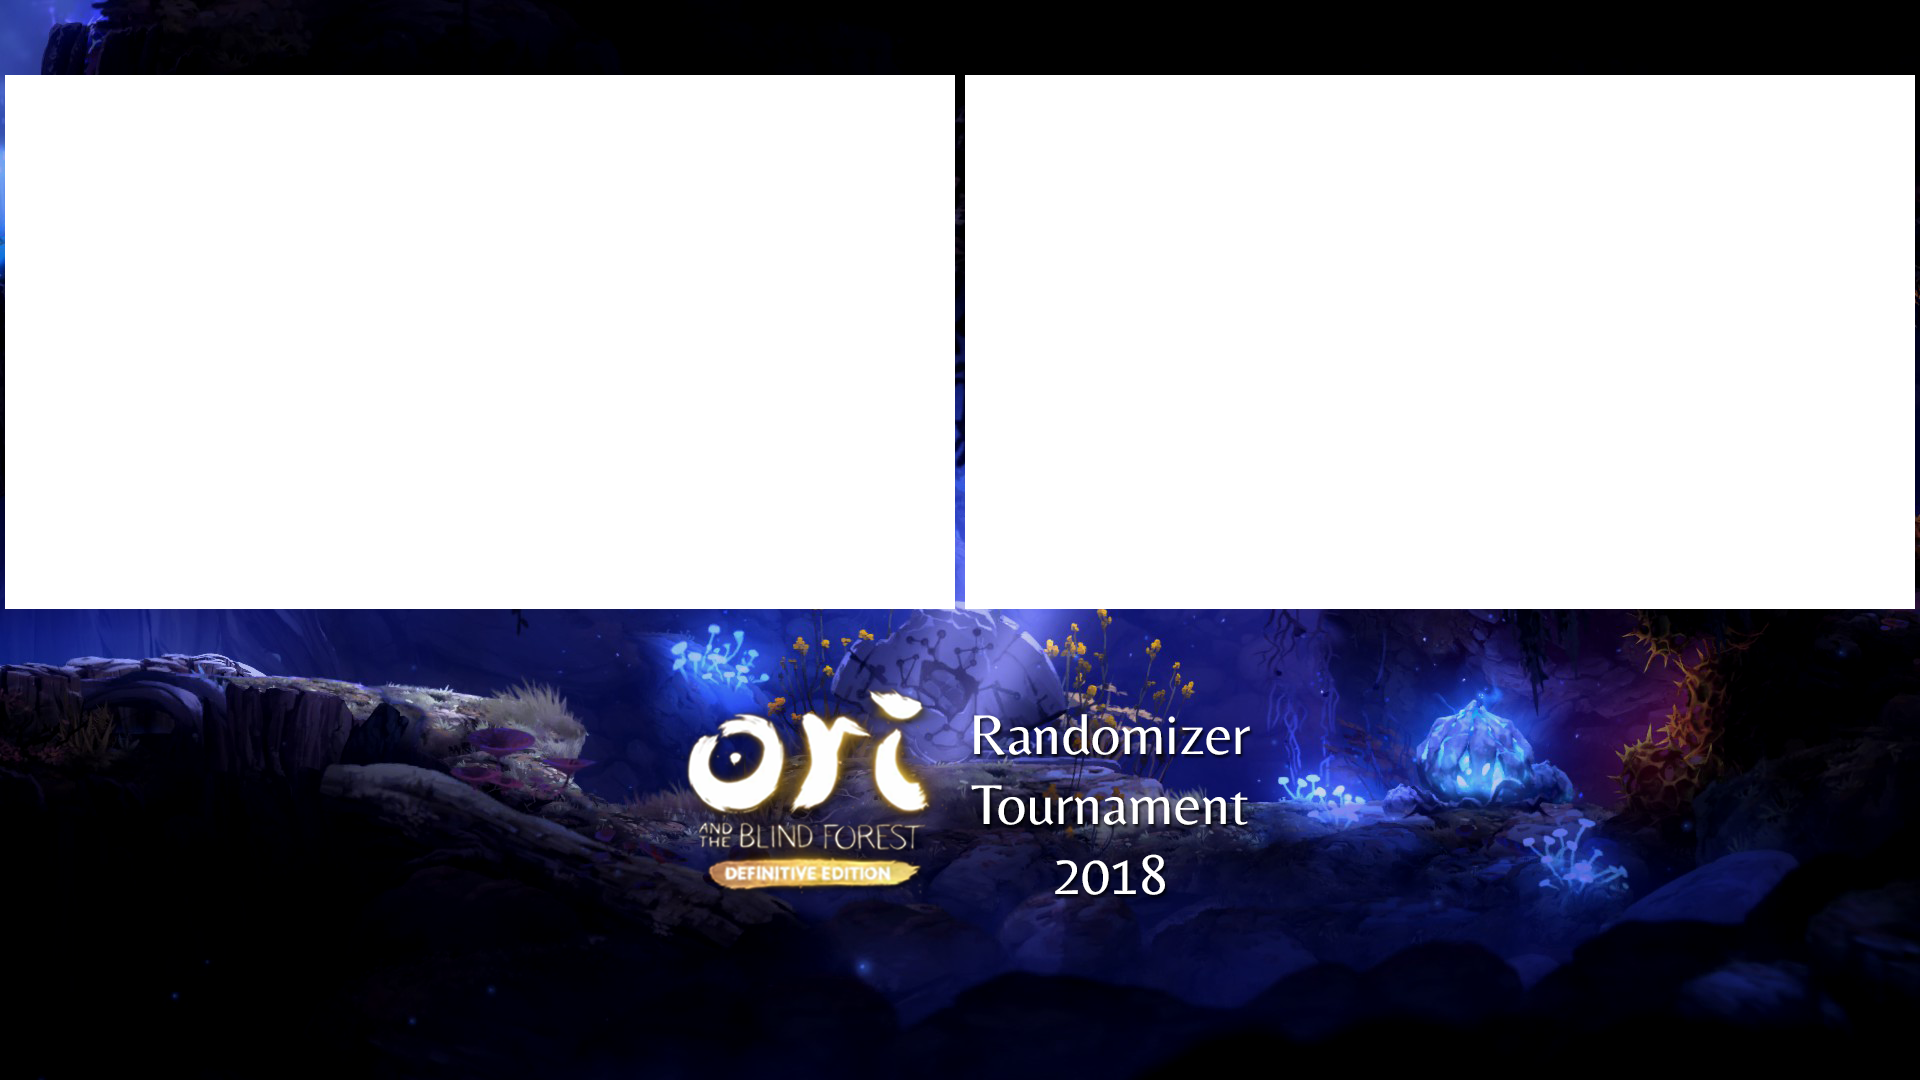
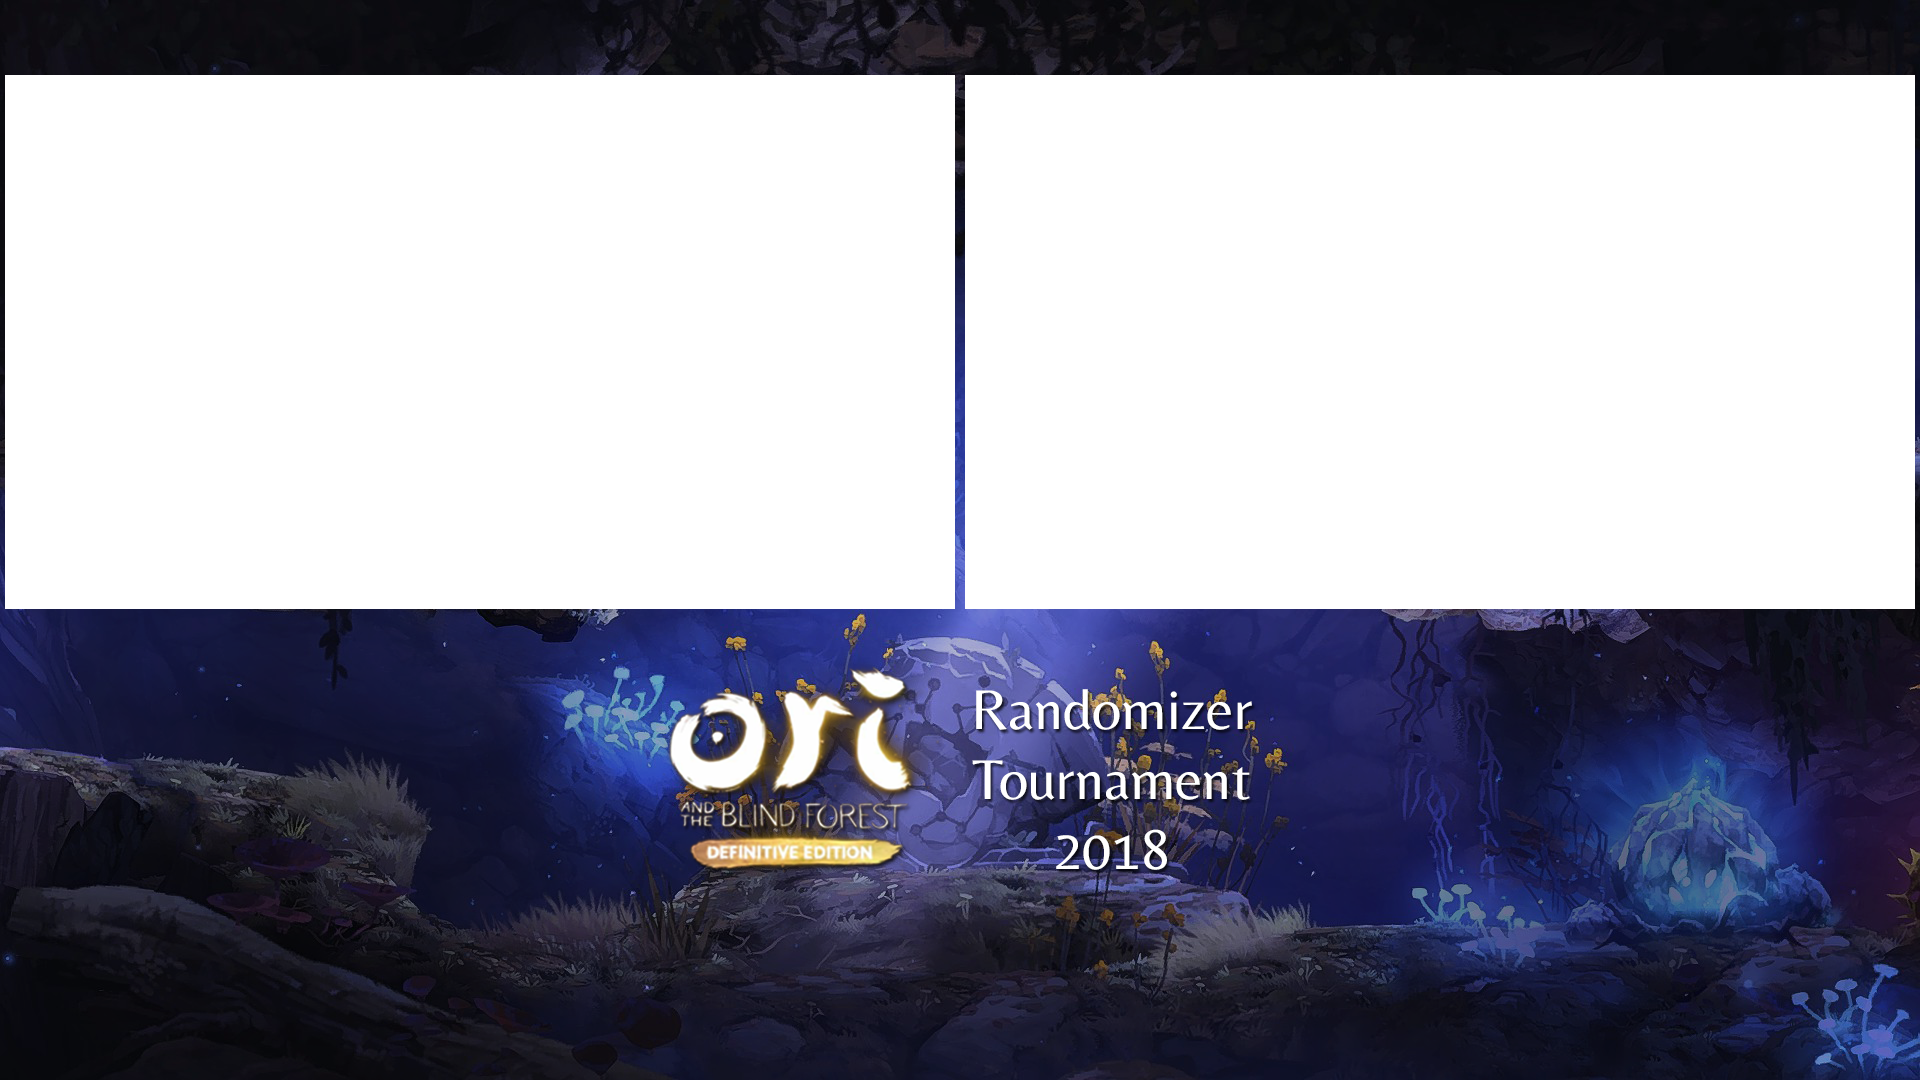
Add working average times, re-did backgrounds

diff --git a/src/app/stream-4way/stream-4way.html b/src/app/stream-4way/stream-4way.html
@@ -7,9 +7,9 @@
         class="team1">
         <span *ngIf="team1.seed">({{ team1.seed }}) </span>{{ team1.name }}
         <div [ngClass]="{ 'team-winner': (vm.team1_FinishTime < vm.team2_FinishTime && vm.team1_FinishTime != 0) || (vm.team1_FinishTime > 0 && vm.team2_FinishTime == 0) }"
-            class="finishTimeWinner">1:00:22</div>
+            class="finishTimeWinner">Winner: {{ team1FinishTime }} (avg)</div>
         <div [ngClass]="{ 'team-winner': (vm.team2_FinishTime < vm.team1_FinishTime && vm.team2_FinishTime != 0) }"
-            class="finishTimeLoser">1:00:22</div>
+            class="finishTimeLoser">{{ team1FinishTime }} (avg)</div>
     </div>
     
     <div [ngClass]="{ 'winner': (vm.team1_FinishTime < vm.team2_FinishTime && vm.team1_FinishTime != 0) || (vm.team1_FinishTime > 0 && vm.team2_FinishTime == 0)  }" 
@@ -73,9 +73,9 @@
         class="team2">
         <span *ngIf="team2.seed">({{ team2.seed }}) </span>{{ team2.name }}
         <div [ngClass]="{ 'team-winner': (vm.team2_FinishTime < vm.team1_FinishTime && vm.team2_FinishTime != 0) || (vm.team2_FinishTime > 0 && vm.team1_FinishTime == 0) }"
-            class="finishTimeWinner">1:00:22</div>
+            class="finishTimeWinner">Winner: {{ team2FinishTime }} (avg)</div>
         <div [ngClass]="{ 'team-winner': (vm.team1_FinishTime < vm.team2_FinishTime && vm.team1_FinishTime != 0) }"
-                class="finishTimeLoser">1:00:22</div>
+                class="finishTimeLoser">{{ team2FinishTime }} (avg)</div>
     </div>
     
     <div [ngClass]="{ 'winner': (vm.team2_FinishTime < vm.team1_FinishTime && vm.team2_FinishTime != 0) || (vm.team2_FinishTime > 0 && vm.team1_FinishTime == 0) }"  

diff --git a/src/app/services/information.ts b/src/app/services/information.ts
@@ -17,7 +17,7 @@ export class Information {
     player2_stats: number = 0;
     currentAudioOnPlayer: number = 1;
     commentators: string = 'Mattermonkey, TheFlyingMarlin';
-    background: string = 'iceless';
+    background: string = 'brbms';
     groupName: string = 'Swiss - Round 3';
     matchType: string = this.groupName + ' (2-0)';
     zoomBracket: boolean = false;
@@ -362,6 +362,27 @@ export class Information {
 			'singles': false,
 			'seed': null
 		},
+		{
+			'id': 50,
+			'name': 'its_galaxy',
+			'preferredName': 'Galaxy',
+			'singles': true,
+			'seed': null
+		},
+		{
+			'id': 51,
+			'name': 'FlaggerMoose',
+			'preferredName': 'Moose',
+			'singles': true,
+			'seed': null
+		},
+		{
+			'id': 52,
+			'name': 'Ushebti',
+			'preferredName': 'Ushebti',
+			'singles': true,
+			'seed': null
+		}
       ];
     
       teams: Array<any> = [
@@ -470,5 +491,12 @@ export class Information {
 			'p2Id': 49,
 			'seed': null
 		},
+		{
+			'id': 17,
+			'name': 'Slurp Squad',
+			'p1Id': 50,
+			'p2Id': 51,
+			'seed': null
+		}
 	];
 }

diff --git a/src/app/stream-4way/stream-4way.cmp.ts b/src/app/stream-4way/stream-4way.cmp.ts
@@ -45,6 +45,15 @@ export class Stream4WayCMP {
 		this.player3 = this.getPlayerById(team2.p1Id);
 		this.player4 = this.getPlayerById(team2.p2Id);
 
+		if(data.team1_FinishTime > 0)
+			this.team1FinishTime = moment().startOf('day').seconds((data.team1_FinishTime)).format('H:mm:ss');
+
+		if(data.team2_FinishTime > 0)
+			this.team2FinishTime = moment().startOf('day').seconds((data.team2_FinishTime)).format('H:mm:ss');
+
+			console.log(data.team1_FinishTime);
+			console.log(this.team1FinishTime);
+
 		}.bind(this));
 	}
 
@@ -65,6 +74,9 @@ export class Stream4WayCMP {
 
 	team1: any;
 	team2: any;
+
+	team1FinishTime: string;
+	team2FinishTime: string;
 
 	player1: any;
 	player2: any;

diff --git a/src/app/stream-4way/stream-4way.css b/src/app/stream-4way/stream-4way.css
@@ -52,10 +52,11 @@
     left: -372px;
     height: 75px;
     width: 372px;
-    background:  #ffd900;
+    background:  rgb(255, 217, 0);
     transition: 1s;
-    color: white;
-    text-shadow: 0;
+    color: #ffffff;
+    text-shadow:
+    0px 0px 6px #000;
 }
 
 .finishTimeLoser {
@@ -64,10 +65,10 @@
     left: -372px;
     height: 75px;
     width: 372px;
-    background: #295ddf;
+    background: rgb(52, 91, 187);
     transition: 1s;
-    color: white;
-    text-shadow: transparent;
+    color: #ffffff;
+    text-shadow: none;
 }
 
 .team-winner {
